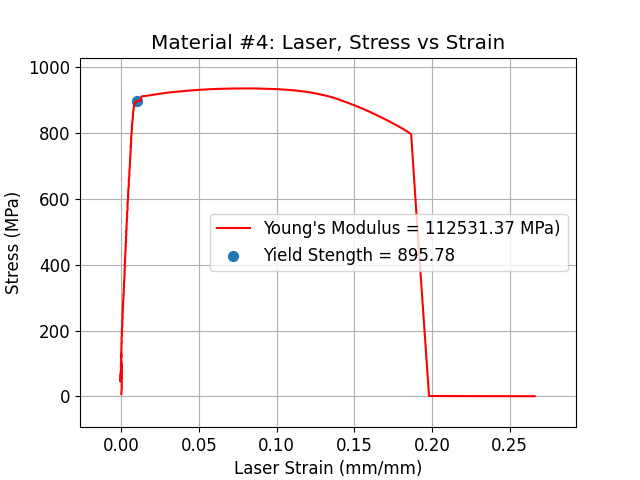
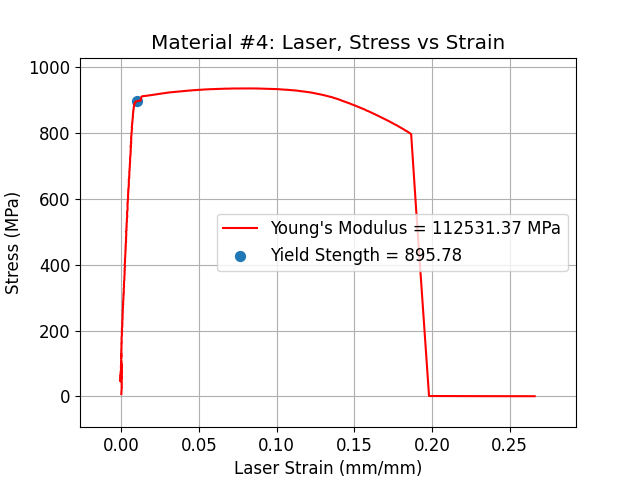
eee

Changed region(s): [[0.3125, 0.4375, 0.875, 0.5625], [0.3125, 0.4688, 0.3438, 0.5]]

diff --git a/src/graphing.py b/src/graphing.py
@@ -48,7 +48,7 @@ def StrainGraph(data: pd.DataFrame, test_num: np.int8, sensor: np.array, modulus
         if s in ['Laser', 'Strain Guage 2']:
             plt.scatter(yield_strength[0], yield_strength[1], s=50)
             mod = modulus[0 if (s == 'Laser') else 1]
-            plt.legend([f'Young\'s Modulus = {round(mod, 2)} MPa)', f'Yield Stength = {round(yield_strength[1], 2)}'])
+            plt.legend([f'Young\'s Modulus = {round(mod, 2)} MPa', f'Yield Stength = {round(yield_strength[1], 2)}'])
 
 
         params = {'mathtext.default': 'regular' }          
